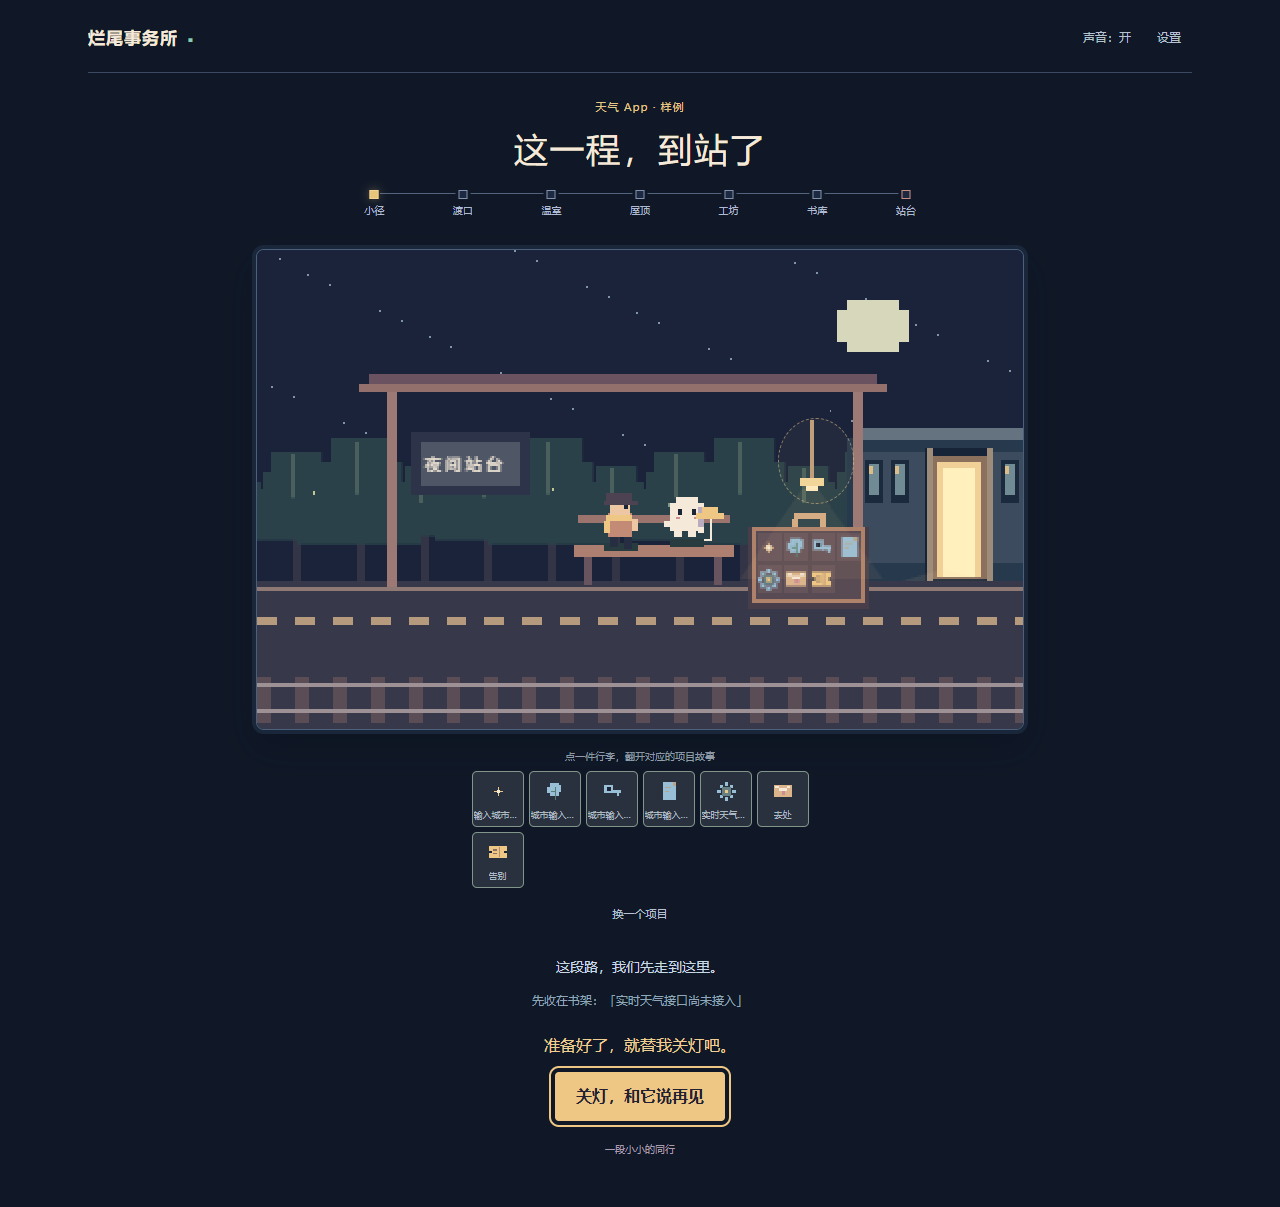
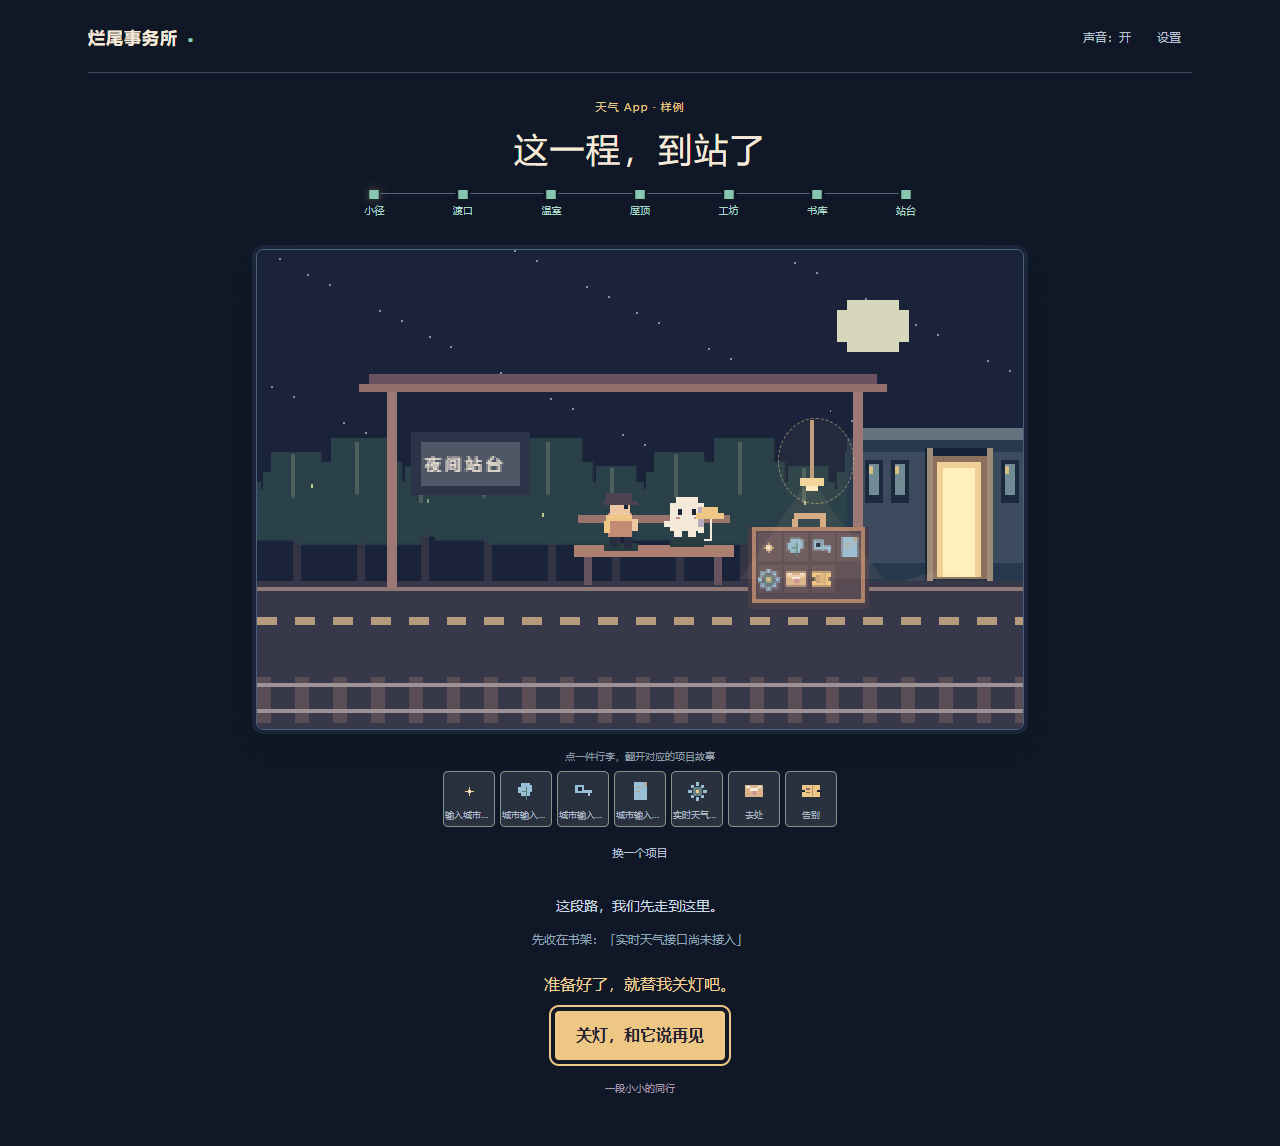
Polish seven-stop journey progress and keepsake layout

diff --git a/src/journey.css b/src/journey.css
@@ -154,5 +154,16 @@
 }
 #app[data-reduced=true] .intro .sample,#app[data-reduced=true] .intro .register-link,#app[data-reduced=true] .sample-arrow{transition:none}
 #app[data-reduced=true] .station-story:not([hidden]){animation:none}
+#bag-items{grid-template-columns:repeat(7,minmax(0,52px))}
+.cover-route li::before{transition:background .22s,border-color .22s,box-shadow .22s}
+.cover-route li[data-progress=complete]{color:#a7d8c8}
+.cover-route li[data-progress=complete]::before{border-color:#86c7ae;background:#86c7ae}
+.cover-route li[data-progress=current]{color:#f0d49f}
+.cover-route li[data-progress=current]::before{border-color:#efc785;background:#efc785;box-shadow:0 0 9px #efc78566}
+.cover-route li[data-progress=upcoming]:last-child::before{border-color:#c88e82;background:#1c2940}
+@media(max-width:620px){#bag-items{grid-template-columns:repeat(7,minmax(0,1fr));width:100%;max-width:364px;margin:auto}#bag-items button{min-width:0}#bag-items canvas{width:24px;height:24px}#bag-items small{font-size:8px}}
+@media(prefers-reduced-motion:reduce){.cover-route li::before{transition:none}}
+#app[data-reduced=true] .cover-route li::before{transition:none}
+@media(max-width:620px) and (prefers-reduced-motion:reduce){#bag-items canvas{transform:none}}
 #app[data-reduced=true][data-state=input] .intro,#app[data-reduced=true][data-state=input] .stage-holder,#app[data-reduced=true][data-state=input] #input-panel,#app[data-reduced=true][data-state=confirm] #confirm-panel,#app[data-reduced=true][data-state=memory] #memory-panel,#app[data-reduced=true][data-state=done] #result-panel,#app[data-reduced=true] .source-pane:not([hidden]){animation:none}
 .bookmark-action{margin:14px 0 4px}#bookmark-memory{display:inline-flex;align-items:center;justify-content:center;gap:10px;min-height:44px;font-size:12px;border:1px solid #405e75;color:#a9c8dc;background:#1a2a3b;padding:10px 16px;border-radius:5px}#bookmark-memory:before{content:'';width:9px;height:15px;background:#7292a7;clip-path:polygon(0 0,100% 0,100% 100%,50% 73%,0 100%)}#bookmark-memory[aria-pressed=true]{border-color:#d3b475;background:#293443;color:#efcf94}#bookmark-memory[aria-pressed=true]:before{background:#efcf94}.departure-panel{max-width:600px;margin:22px auto 8px;text-align:center;padding:0 18px}.departure-panel>p{overflow-wrap:anywhere;font-size:14px;line-height:1.9;margin:8px 0;color:#c8d8e4}.departure-panel .note{font-size:12px;color:#90a7ba}.departure-panel .departure-voice{color:#efcf94;margin:18px 0 6px;font-size:16px;min-height:30px}.remembered-page{position:relative;text-align:left;border-left:2px solid #d8bc87;background:#1e3042;border-radius:0 6px 6px 0;padding:16px 20px;margin:18px 0;overflow-wrap:anywhere}.remembered-page>small{color:#93b2c7;font-size:11px}.remembered-page>p{font-size:15px;line-height:1.8;color:#ecdfc5;margin:8px 0}.remembered-page>button{display:block;min-height:44px;padding:8px 0;color:#dbbe88;margin-top:6px}.remembered-page:after{content:'';position:absolute;right:18px;top:0;width:10px;height:18px;background:#d8bc87;clip-path:polygon(0 0,100% 0,100% 100%,50% 75%,0 100%)}

diff --git a/src/main.ts b/src/main.ts
@@ -11,6 +11,7 @@ import { setupImport } from './import-ui.ts';
 type State = 'input'|'reading'|'confirm'|'opening'|'playing'|'cleared'|'memory'|'paused'|'waiting'|'fading'|'done';
 const el = <T extends HTMLElement=HTMLElement>(id:string) => document.getElementById(id) as T;
 const stage=el<HTMLCanvasElement>('stage'),ctx=stage.getContext('2d');
+const routeStops=[...document.querySelectorAll<HTMLElement>('.cover-route li')];
 const inputName=el<HTMLInputElement>('project-name'),description=el<HTMLTextAreaElement>('description');
 const prop=el<HTMLSelectElement>('prop'),palette=el<HTMLSelectElement>('palette'),accessory=el<HTMLSelectElement>('accessory');
 const reduced=el<HTMLInputElement>('reduced'),includeDate=el<HTMLInputElement>('include-date'),date=el<HTMLInputElement>('memorial-date');
@@ -71,6 +72,12 @@ function addStationRipple(x:number,y:number,kind:StationRipple['kind']='water'){
   draw();animateStationRipples();
 }
 function refreshGame(){
+  const waitingAtStation=journey.skipped&&['waiting','fading','done'].includes(state);
+  routeStops.forEach((stop,index)=>{
+    const complete=journey.visited.includes(index),current=!complete&&(waitingAtStation?index===levels.length-1:index===levelIndex||index===0&&['input','reading','confirm'].includes(state));
+    stop.dataset.progress=complete?'complete':current?'current':'upcoming';
+    stop.setAttribute('aria-current',current?'step':'false');
+  });
   const level=levels[levelIndex];
   const coop=playMode==='together';
   el('solo-controls').hidden=coop;el('coop-controls').hidden=!coop;el<HTMLButtonElement>('hint').hidden=coop;
